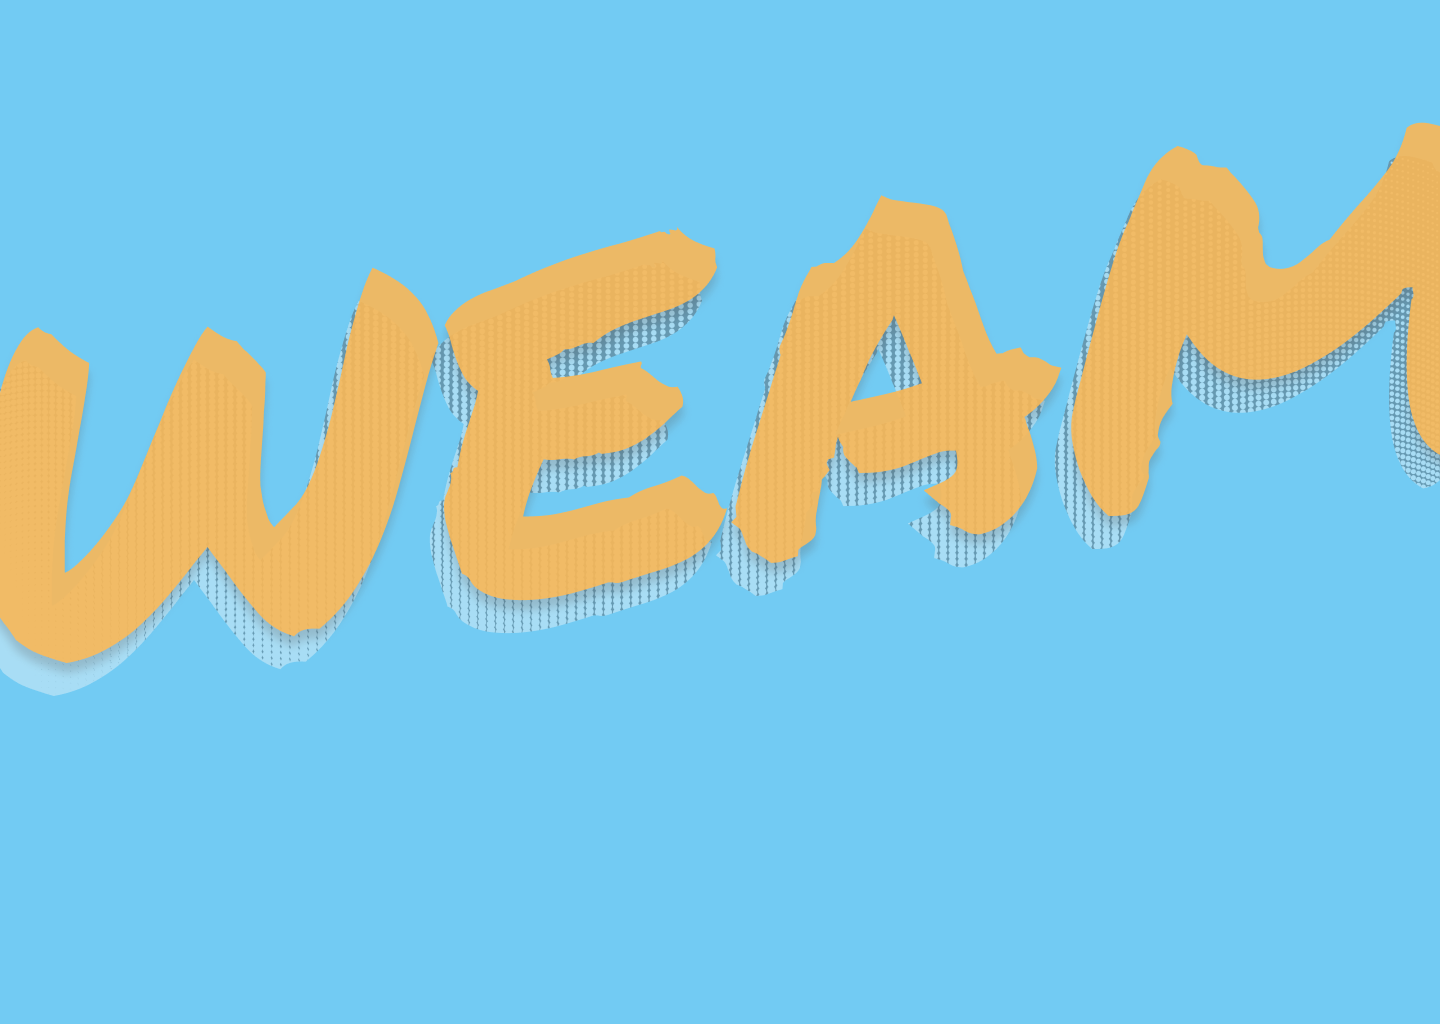
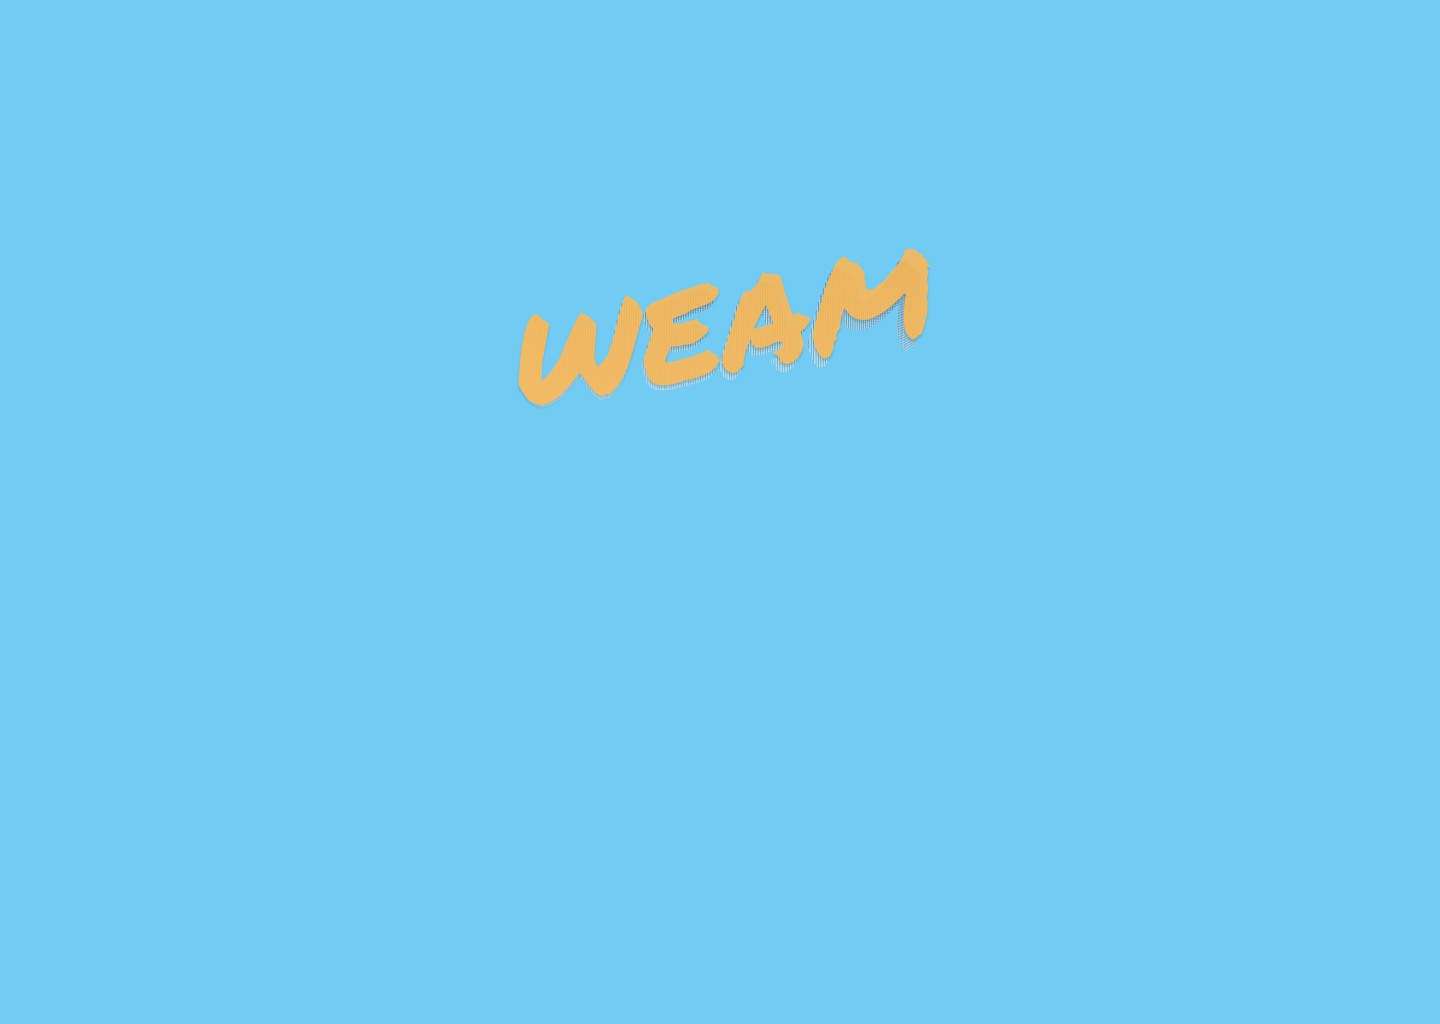
Styled Home.js and Login.js

Changed region(s): [[0.0, 0.125, 1.0, 0.6875]]

diff --git a/src/pages/Home/Home.js b/src/pages/Home/Home.js
@@ -2,11 +2,9 @@
 import Button from '@mui/material/Button';
 import Grid from '@mui/material/Grid'
 import Stack from '@mui/material/Stack'
-import Typography from '@mui/material/Typography'
 import { NavLink } from 'react-router-dom';
 import { useAuthContext } from '../../hooks/auth/useAuthContext'
 import { useLogout } from '../../hooks/auth/useLogout';
-import Box from '@mui/material/Box';
 
 const btn = [{
   mx: 'auto',
@@ -18,44 +16,27 @@ const Home = () => {
 
   return (
     <Stack>
-      {/* TITLE */}
-      <Typography 
-        variant="h4" 
-        color="initial" 
-        component="h2" 
-        gutterBottom
-        sx={{mt: 12, mb: 4}}
-      >
-        {user && 'DASHBOARD' }
-      </Typography>
-
-      {/* CARD */}
-      <Grid container alignItems='center' justifyContent='center' marginTop={'30%'}>
-        <Grid item xs={12}>
-          {/* {user ? 
-            <Button component={NavLink} to="/sub-request" sx={btn} variant="contained" size="large">Find Subs</Button> 
-            :              
-            <Box display={'flex'} justifyContent={'center'} gap={'1em'} marginBottom={'1em'}>
-              <Typography color="initial" fontWeight={'bold'}>Connect with players.</Typography>
-              <Typography color="initial" fontWeight={'bold'}>Find subs.</Typography>
-              <Typography color="initial" fontWeight={'bold'}>Play ball.</Typography>
-            </Box>
-          } */}
-          {user && <Button component={NavLink} to="/sub-request" sx={btn} variant="contained" size="large">Find Subs</Button>}
-        </Grid>
-        <Grid item xs={12} lg={2} display={'flex'} flexDirection={'column'} gap={'0.5em'} >
-          {!user && <Button component={NavLink} to="/login" variant="contained" size="large" sx={{ color: "#eeeeee" }} >Log In</Button>}
-          {!user && <Button component={NavLink} to="/signup" variant="contained" size="large" sx={{ backgroundColor: "#eeeeee", color: "#03A9F4" }}>Sign Up</Button>}
-        </Grid>
-        {/* <Grid item xs={12}>
-          {!user && <Button component={NavLink} to="/signup" sx={btn} variant="contained" size="large">Sign Up</Button>}
-        </Grid> */}
-        <Grid item xs={12}>
-          {user && <Button component={NavLink} to="/profile" sx={btn} variant="contained" size="large">View Profile</Button>}
-        </Grid>
-        <Grid item xs={12}>
-          {user && <Button onClick={logout} sx={btn} variant="contained" size="large">Log Out</Button>}
-        </Grid>
+      <Grid container justifyContent='center'>
+        {user ?
+          <Grid item xs={12}>
+            <Button component={NavLink} to="/sub-request" sx={btn} variant="contained" size="large">Find Subs</Button>
+          </Grid>
+          :
+          <Grid item width="260px" display={'flex'} flexDirection={'column'} justifyContent="center" gap={'0.5em'} marginTop="1em">
+            <Button component={NavLink} to="/login" variant="contained" size="large" >Log In</Button>
+            <Button component={NavLink} to="/signup" variant="contained" size="large" sx={{ backgroundColor: "#eeeeee", color: "#03A9F4" }}>Sign Up</Button>
+          </Grid>
+        }
+        {user && 
+          <Grid item xs={12}>
+            <Button component={NavLink} to="/profile" sx={btn} variant="contained" size="large">View Profile</Button>
+          </Grid>
+        }
+        {user && 
+          <Grid item xs={12}>
+            <Button onClick={logout} sx={btn} variant="contained" size="large">Log Out</Button>
+          </Grid> 
+        }
       </Grid>
     </Stack>
   )

diff --git a/src/pages/Login/Login.js b/src/pages/Login/Login.js
@@ -4,10 +4,8 @@ import AuthErrorMessage from '../../components/AuthErrorMessage'
 // MUI
 import Button from '@mui/material/Button'
 import Grid from '@mui/material/Grid'
-import Paper from '@mui/material/Paper'
 import Stack from '@mui/material/Stack'
 import TextField from '@mui/material/TextField'
-import Typography from '@mui/material/Typography'
 // AUTH
 import { useLogin } from '../../hooks/auth/useLogin'
 // FORMS
@@ -43,27 +41,12 @@ const Login = () => {
     validationSchema
   })
 
-
   return (
-    <Stack sx={{ marginTop: '10%'}}>
-
-      <Typography 
-        variant="h4" 
-        color="initial" 
-        component="h2" 
-        gutterBottom
-        sx={{m: 4}}
-      >
-        LOG IN
-      </Typography>
-
-      <Grid container alignItems='center' justifyContent='center'>
-
-        <Grid item xs={12} sm={9} md={7} lg={5}>
-          <Paper elevation={3} sx={{ backgroundColor: '#fffffe', py: 6 }}>
-            <Grid container alignItems='center' justifyContent='center'>
-
-              <Grid item xs={8}>
+    <Stack textAlign="center" >
+      <Grid container flexDirection="column" alignItems='center' justifyContent='center' >
+        <Grid item xs={12} sm={9} md={7} lg={4} >
+            <Grid container direction="column" alignItems='center' justifyContent='center'>
+              <Grid item width="320px" >
                 <form noValidate autoComplete='off' onSubmit={formik.handleSubmit}>
                     <TextField
                       label='Email'
@@ -72,7 +55,7 @@ const Login = () => {
                       variant='outlined'
                       required
                       fullWidth
-                      sx={{ my: '10px' }}
+                      sx={{ my: '6px' }}
                       {...formik.getFieldProps('email')}
                       error={formik.touched.email && Boolean(formik.errors.email)}
                       helperText={formik.touched.email && formik.errors.email}
@@ -84,13 +67,12 @@ const Login = () => {
                       variant='outlined'
                       required
                       fullWidth
-                      sx={{ my: '10px' }}
                       {...formik.getFieldProps('password')}
                       error={formik.touched.password && Boolean(formik.errors.password)}
                       helperText={formik.touched.password && formik.errors.password}
                     />
                     <Button 
-                      sx={{ my: '10px' }}
+                      sx={{ my: '12px' }}
                       variant="contained"
                       color="primary"
                       type='submit'
@@ -101,18 +83,14 @@ const Login = () => {
                   {authError && <AuthErrorMessage authType='login' />}
                 </form>
               </Grid>
-
-              <Grid item xs={8}>
-                <Grid container justifyContent="space-between">
+              <Grid item width="320px">
+                <Grid container justifyContent="space-between" fontSize="14px">
                   <NotRegistered />
                   <ForgotPassword />
                 </Grid>
               </Grid>
-
             </Grid>
-          </Paper>
         </Grid>
-
       </Grid>
       <BackButton />
     </Stack>

diff --git a/src/hooks/useTheme.js b/src/hooks/useTheme.js
@@ -1,6 +1,6 @@
 // MUI
 import { createTheme } from '@mui/material';
-import { lightBlue, orange } from '@mui/material/colors'
+import { orange } from '@mui/material/colors'
 
 export const useTheme = () => {
 
@@ -12,13 +12,22 @@ export const useTheme = () => {
     typography: {
       // fontFamily: '"Permanent Marker", "cursive"',
       fontFamily: '"Roboto", "sans-serif"',
-      fontSize: '20px'
+      fontSize: 14
     },
     components: {
       MuiInputBase: {
         styleOverrides: {
           input: {
-            fontFamily: '"Roboto","Helvetica","Arial",sans-serif;'
+            fontFamily: '"Roboto","Helvetica","Arial",sans-serif;',
+            height: '1em'
+          }
+        }
+      },
+      MuiOutlinedInput: {
+        styleOverrides: {
+          root: {
+            backgroundColor: '#eeeeee',
+            borderRadius: '8px'
           }
         }
       },
@@ -26,6 +35,8 @@ export const useTheme = () => {
         styleOverrides: {
           root: {
             borderRadius: '8px',
+            color: "#eeeeee",
+            fontSize: 16,
             fontWeight: 'bold',
             textTransform: 'capitalize'
           }
@@ -34,7 +45,7 @@ export const useTheme = () => {
       MuiLink: {
         styleOverrides: {
           root: {
-            color: '#555555',
+            color: '#343434',
             fontFamily: '"Permanent Marker", "cursive"',
             textDecoration: 'none'
           }
@@ -50,7 +61,8 @@ export const useTheme = () => {
       MuiPaper: {
         styleOverrides: {
           root: {
-            borderRadius: '12px'
+            borderRadius: '12px',
+            backgroundColor: 'rgb(238, 238, 238, 0.8)'
           }
         }
       },

diff --git a/src/App.js b/src/App.js
@@ -5,7 +5,7 @@ import Home from './pages/Home/Home';
 import Signup from './pages/Signup/Signup';
 import Login from './pages/Login/Login';
 import SubRequest from './pages/SubRequest/SubRequest';
-import FadeMenu from './components/FadeMenu';
+// import FadeMenu from './components/FadeMenu';
 import Profile from './pages/Profile/Profile';
 import { BrowserRouter, Routes, Route, Navigate } from 'react-router-dom';
 // HOOKS
@@ -16,14 +16,23 @@ import Grid from '@mui/material/Grid'
 import { ThemeProvider } from '@mui/material';
 // MEDIA
 import MainBgImage from './assets/main-bg-image.png'
+import TagLine from './components/TagLine';
 
 function App() {
   const { user, authIsReady } = useAuthContext()
   const { theme } = useTheme()
   
+  const appStyles = { 
+    height: '100%', 
+    backgroundImage: `url(${MainBgImage})`, 
+    backgroundSize: 'cover', 
+    backgroundPosition: '50% 45%' 
+  }
+
   return (
-    <Grid className="App" container sx={{ justifyContent: 'center', height: '100%', backgroundImage: `url(${MainBgImage})`, backgroundSize: 'cover', backgroundPosition: '50% 45%' }}>
-      <Grid item xs={12} xl={10} >
+    <Grid className="App" container justifyContent="center" spacing={0} sx={appStyles}>
+      <Grid container item xs={12} xl={10} direction="column" position="relative" top="42.5%" height="fit-content">
+        <TagLine />
         {authIsReady && (
         <ThemeProvider theme={theme}>
           <BrowserRouter basename="/weam">

diff --git a/src/components/TagLine.js b/src/components/TagLine.js
@@ -1,0 +1,14 @@
+// MUI
+import Box from '@mui/material/Box';
+import Typography from '@mui/material/Typography'
+
+const TagLine = () => {
+  return (
+  <Box display={'flex'} justifyContent={'center'} gap={'0.75em'} marginBottom={'1em'}>
+    <Typography color="#444444" fontFamily="'Permanent Marker', 'cursive'" sx={{ fontSize: { xs: "24px", xl: "32px"} }} fontWeight="bold">Sign up.</Typography>
+    <Typography color="#444444" fontFamily="'Permanent Marker', 'cursive'" sx={{ fontSize: { xs: "24px", xl: "32px"} }} fontWeight="bold">Find subs.</Typography>
+    <Typography color="#444444" fontFamily="'Permanent Marker', 'cursive'" sx={{ fontSize: { xs: "24px", xl: "32px"} }} fontWeight="bold">Play ball.</Typography>
+  </Box>
+  )
+}
+export default TagLine

diff --git a/src/components/NotRegistered.js b/src/components/NotRegistered.js
@@ -15,7 +15,7 @@ const NotRegistered = () => {
       variant="subtitle2"
       component="div"
       gutterBottom
-      sx={{ textAlign: 'left' }}
+      sx={{ color: "#343434", textAlign: 'left' }}
     >
       Not registered yet? 
       <NavLink to={'/signup'} style={{ margin: '5px', textDecoration: 'none' }} onClick={clearError} >

diff --git a/src/components/BackButton.js b/src/components/BackButton.js
@@ -16,7 +16,7 @@ const BackButton = ({ style }) => {
       sx={style ? 
         style
         :
-        { my: 6 }
+        { my: 3 }
       } 
       to={'/'} 
       onClick={clearError} 
